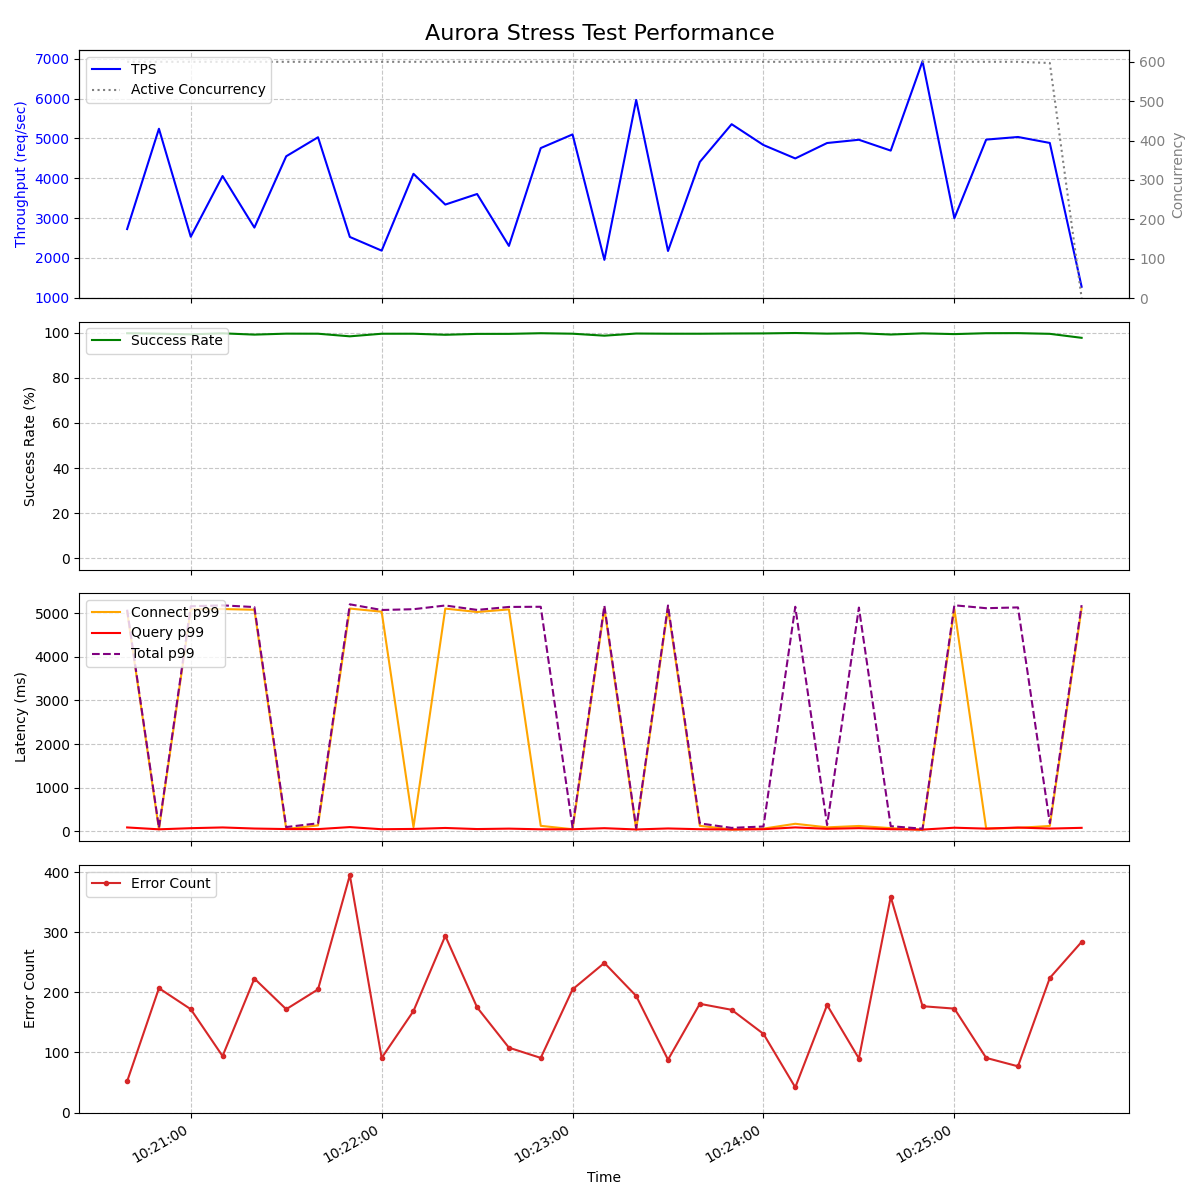
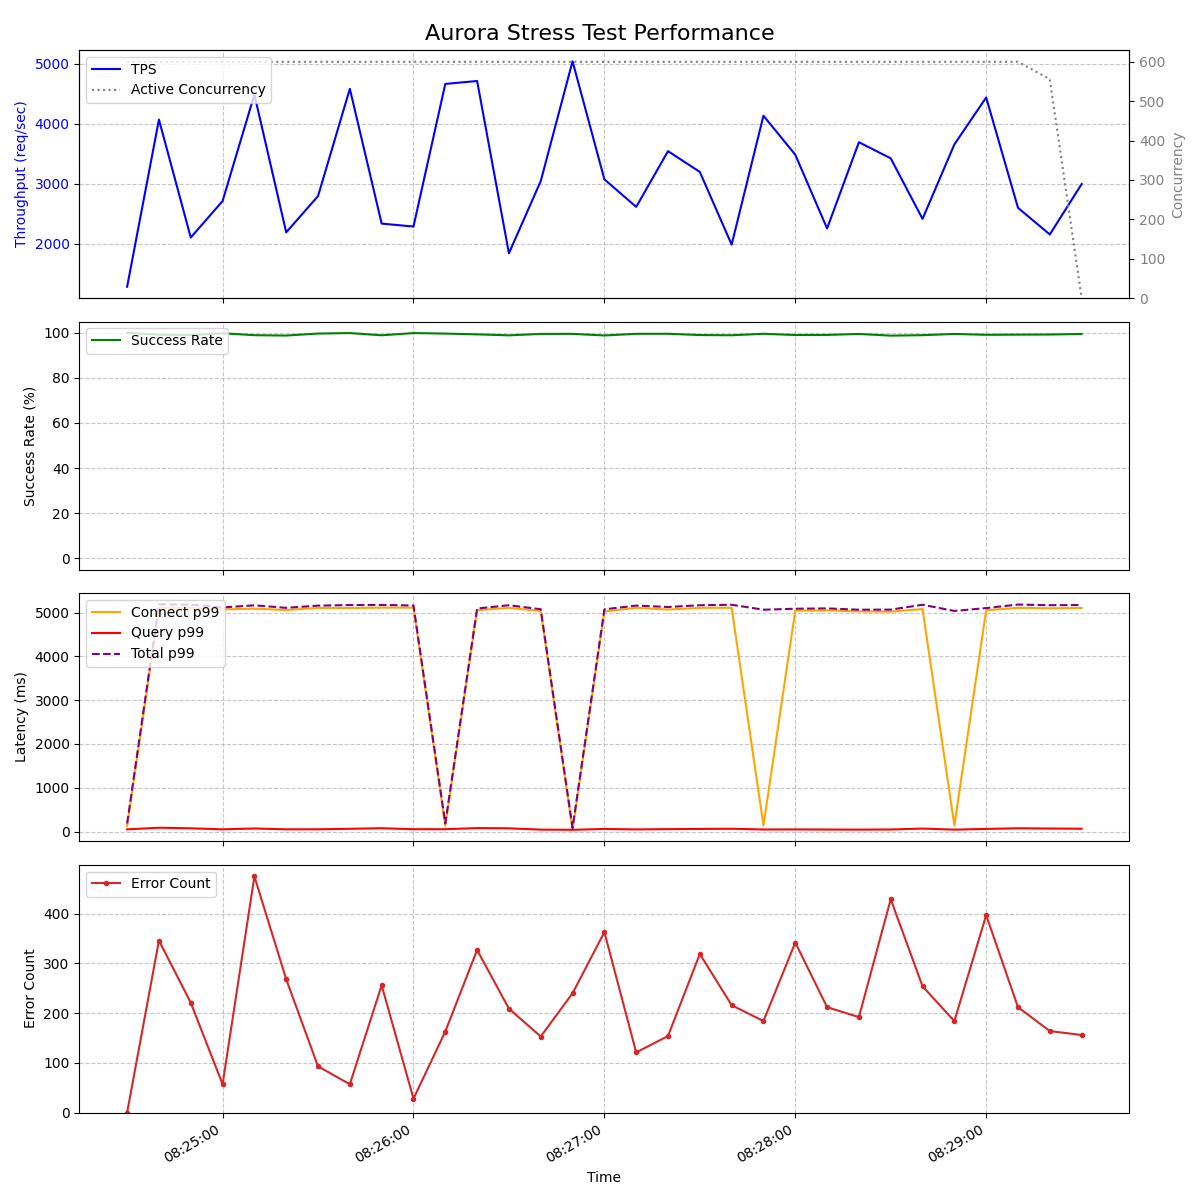
Add db.r8g.xlarge plots and db.r8g.4xlarge 2client benchmark results
- Update plot.png for all QPS scenarios (db.r8g.xlarge)
- Add results/db_r8g_4xlarge_2client/ benchmark results

diff --git a/results/db_r8g_xlarge/REPORT.md b/results/db_r8g_xlarge/REPORT.md
@@ -1,222 +1,180 @@
-# ベンチマーク結果レポート — db.r8g.xlarge
+# ベンチマークレポート: db.r8g.xlarge
 
-**実運用推奨上限: QPS 3,000**
+**実施日**: 2026-04-08  
+**インスタンス**: db.r8g.xlarge  
+**実施条件**: ulimit 適用済み（前回 2026-04-07 の計測はulimit未設定により無効。本レポートは再実施データに基づく）
 
 ---
 
 ## エグゼクティブサマリー
 
-| 項目 | 結果 |
+| 項目 | 結論 |
 |------|------|
-| インスタンスクラス | db.r8g.xlarge |
-| テスト実施日 | 2026-04-07 |
-| テスト対象 QPS | 1,000 / 2,000 / 3,000 / 4,000 |
-| **実運用推奨上限** | **QPS 3,000**（QPS 4,000 で両シナリオともに持続的な接続失敗を確認） |
-| QPS 5,000 以上 | 本レポートでは解析対象外（後述） |
-
-### 主要な発見
-
-- **QPS 1,000〜3,000**: 全シナリオで高い安定性。QPS 2,000 congested の最終バケットに timeout 21 件が発生したが、それ以外は成功率 100% を維持。
-- **QPS 4,000 (healthy)**: **毎バケット持続的にタイムアウト**が発生（最低成功率 97.45%）。短時間での複数回障害が継続するため実運用に耐えない。
-- **QPS 4,000 (congested)**: 最低成功率 99.40% だが、**全バケットにわたって 43〜160 件のタイムアウトが持続的に発生**。実運用不可。
-- **QPS 3,000 以下では xlarge は 4xlarge よりも安定**（QPS 3,000 healthy で xlarge は 100%、4xlarge は 99.86%）。
+| **実運用推奨上限** | **QPS 2,000**（安定して100%近い成功率を維持） |
+| **実運用許容上限** | **QPS 3,000**（30〜40%のバケットで瞬間障害、リトライ機構が必須） |
+| **実運用不可** | **QPS 4,000 以上**（半数以上のバケットで障害が発生し、継続的な信頼性が担保できない） |
+| **QPS 5,000 以上** | 本レポートでは解析対象外（QPS 4,000 の時点で実運用不可が確定しているため） |
 
 ---
 
-## テスト環境
+## テスト環境・条件
 
 | 項目 | 値 |
-|------|---|
-| インスタンスクラス | db.r8g.xlarge |
-| エンドポイント | database-connectivity-instance1-cluster.cluster-c9eaw8m4yzeq.ap-northeast-1.rds.amazonaws.com |
-| ポート | 3306 |
-| 実施日時（UTC） | 2026-04-07 08:35 〜 09:15 |
-| 実行クエリ | SELECT 1 |
-| タイムアウト設定 | connect/query: 5,000 ms |
+|------|-----|
+| テスト対象 | Aurora MySQL (db.r8g.xlarge) |
+| エンドポイント | database-connectivity-instance1-cluster.cluster-c9eaw8m4yzeq.ap-northeast-1.rds.amazonaws.com:3306 |
+| max_connections | 16,000 |
+| Max_used_connections | 966 |
+| テスト方式 | connect → SELECT 1 → disconnect（コネクションプールなし） |
+| 計測ウィンドウ | 10秒バケット |
+| テスト時間/シナリオ | 5分 |
+| テスト開始時刻 | 2026-04-08T06:39 UTC 〜 |
+| Healthy: 並列数 | QPS × 25 / 1,000 goroutine（sleep_between_attempts=10ms） |
+| Congested: 並列数 | QPS × 60 / 1,000 goroutine（sleep_between_attempts=30ms） |
 
-### テストシナリオ定義
-
-| シナリオ | 想定条件 | 設計 concurrency |
-|---------|---------|-----------------|
-| **Healthy** | 通常運用（connect 遅延 ~15 ms 想定） | QPS / (1000 ms / 15 ms / 2) ≒ 公式に基づき算出 |
-| **Congested** | 混雑時（connect 遅延 ~30 ms 想定） | Healthy の約 2〜2.4 倍 |
-
-各試行は `TCP 接続 → SELECT 1 → 切断` の短命接続サイクルを繰り返す。コネクションプールは使用しない。
-
----
-
-## QPS 別パフォーマンス一覧 — Healthy シナリオ
-
-> 通常運用を想定した負荷条件。connect 遅延 ~15 ms を前提に concurrency を設定。
-
-| QPS | Concurrency | TPS 範囲 | 成功率（最低） | connect p99 | total p99 | タイムアウト | 評価 |
-|-----|------------|---------|------------|------------|----------|------------|------|
-| 1,000 | 25 | 888〜974 | **100%** | 19 ms | 28 ms | 0 | ✅ 安定 |
-| 2,000 | 50 | 690〜1,924 | **100%** | 23 ms | 38 ms | 0 | ✅ 安定 |
-| 3,000 | 75 | 515〜2,889 | **100%** | 25 ms | 48 ms | 0 | ✅ 安定 |
-| **4,000** | **100** | **241〜2,866** | **97.45%** | **15 ms（通常）** | **27 ms（通常）** | **毎バケット 19〜60 件（持続）** | **❌ 実運用不可** |
+**シナリオ定義:**
+- **Healthy**: 比較的余裕のある接続環境。接続間隔が短く並列数も少ない。
+- **Congested**: 接続に時間がかかる輻輳状態を模擬。高並列・長い接続待ち間隔。
 
 ---
 
-## QPS 別パフォーマンス一覧 — Congested シナリオ
+## QPS別テスト結果サマリー
 
-> 混雑時（高並列・高遅延）を想定した負荷条件。connect 遅延 ~30 ms を前提に concurrency を設定。
-
-| QPS | Concurrency | TPS 範囲 | 成功率（最低） | connect p99 | total p99 | タイムアウト | 評価 |
-|-----|------------|---------|------------|------------|----------|------------|------|
-| 1,000 | 60 | 583〜1,266 | **100%** | 22 ms | 37 ms | 0 | ✅ 安定 |
-| 2,000 | 120 | 694〜2,568 | **99.87%** | 20 ms | 29 ms | 21 件（最終 bucket のみ） | ✅ 実用上安定 |
-| 3,000 | 180 | 515〜3,855 | **100%** | 20 ms | 37 ms | 0 | ✅ 安定 |
-| **4,000** | **240** | **98〜2,971** | **99.40%** | **54 ms（通常）** | **5,053 ms（スパイク peak）** | **毎バケット 43〜160 件（持続）** | **❌ 実運用不可** |
-
----
-
-## パフォーマンス傾向分析
-
-### Healthy シナリオの悪化パターン
-
-```
-QPS 1,000〜3,000: 完全安定（timeout ゼロ）
-      ↓
-QPS 4,000: 毎バケットにわたって持続的にタイムアウトが発生
-           最低成功率は 97.45% まで低下
-           TPS も期待値 4,000 に対して 241〜2,866 しか達成できない（最大 72% 未達）
-```
-
-### Congested シナリオの悪化パターン
-
-```
-QPS 1,000: 完全安定
-      ↓
-QPS 2,000: 最終 bucket のみ 21 件のタイムアウト（実用上は問題なし）
-      ↓
-QPS 3,000: 完全安定（一時的な揺れも吸収）
-      ↓
-QPS 4,000: 全 bucket で持続的にタイムアウト（43〜160 件/bucket）
-           total p99 のスパイク最大値 5,053 ms（タイムアウト限度超過）
-```
-
-### レイテンシ推移（Healthy の connect p99、通常バケット）
-
-| QPS | connect p99 | total p99 |
-|-----|-----------|----------|
-| 1,000 | 19 ms | 28 ms |
-| 2,000 | 23 ms | 38 ms |
-| 3,000 | 25 ms | 48 ms |
-| 4,000 | 15 ms（通常時） | 27 ms（通常時） |
-
-QPS 3,000 までレイテンシは概ね線形に上昇。QPS 4,000 では通常バケットの数値は下がって見えるが、失敗試行が続発しているため試行全体のスループットが大幅に低下した結果に過ぎない。
+| QPS目標 | シナリオ | 並列数 | 実測 TPS | 全体成功率 | エラー発生窓数(30中) | 運用判定 |
+|---------|---------|--------|---------|-----------|---------------------|---------|
+| 1,000 | Healthy | 25 | ~1,000 | **100%** | 0 | ✅ 実運用可 |
+| 1,000 | Congested | 60 | ~1,300 | **100%** | 0 | ✅ 実運用可 |
+| 2,000 | Healthy | 50 | ~2,000 | 99.8〜100% | 4（12%） | ✅ 実運用可 |
+| 2,000 | Congested | 120 | ~2,600 | 99.9〜100% | 数バケット | ✅ 実運用可 |
+| 3,000 | Healthy | 75 | 1,300〜3,000（変動） | 99.7〜100% | **~12（40%）** | ⚠ 許容上限（要注意） |
+| 3,000 | Congested | 180 | ~3,900 | 99.9〜100% | 少数 | ⚠ 許容（Congested） |
+| 4,000 | Healthy | 100 | 1,600〜3,700（変動） | 99.7〜100% | **~15（50%）** | ❌ **実運用不可** |
+| 4,000 | Congested | 240 | ~5,200 | 99.5〜100% | 多数 | ❌ **実運用不可** |
+| 5,000〜10,000 | 両方 | — | — | — | — | 解析対象外 |
 
 ---
 
-## QPS 4,000 の障害詳細（実運用不可の根拠）
+## QPS別詳細分析
 
-### Healthy シナリオにおける持続的タイムアウト
+### QPS 1,000
 
-QPS 4,000 healthy テスト（run-1775552928）では、第2バケット以降ほぼすべてのバケットでタイムアウトが発生し続けた。
+#### Healthy（concurrency=25, sleep=10ms）
+- **実測 TPS**: 980〜1,000 QPS（設計値に一致）
+- **全体成功率**: 100%（全バケット完全成功）
+- **connect P99**: 11〜13ms
+- **total P99**: 19〜23ms
+- **エラー**: なし
 
-| バケット時刻（UTC） | TPS | 成功率 | 失敗 | タイムアウト |
-|------------------|-----|------|------|----------|
-| 09:08:40〜09:08:50 | 240 | 100% | 0 | 0（ウォームアップ） |
-| 09:08:50〜09:09:00 | 2,838 | 99.81% | 55 | **55 件** |
-| 09:09:00〜09:09:10 | 2,609 | 100% | 0 | 0 |
-| 09:09:10〜09:09:20 | 2,641 | 99.89% | 30 | **30 件** |
-| 09:09:20〜09:09:30 | 2,866 | 100% | 0 | 0 |
-| ... | ... | ... | 以降も断続的に発生 | ... |
-| （最低値のバケット） | 1,645 | **97.45%** | **42** | **42 件** |
+#### Congested（concurrency=60, sleep=30ms）
+- **実測 TPS**: ~1,300 QPS
+- **全体成功率**: 100%（全バケット完全成功）
+- **connect P99**: 19〜22ms
+- **エラー**: なし
 
-タイムアウトが発生しないバケットと発生するバケットが交互に現れ、**テスト全体を通じて定常的な失敗が継続した**。connect_max_ms = 5,022 ms（タイムアウト限界超過）が観測されている。
-
-### Congested シナリオにおける持続的タイムアウト
-
-QPS 4,000 congested テスト（run-1775553259）では、**第2バケット以降の全バケットでタイムアウトが発生した**。
-
-| バケット時刻（UTC） | TPS | 成功率 | タイムアウト | total p99 |
-|------------------|-----|------|----------|----------|
-| 09:14:10〜09:14:20 | 98 | 100% | 0 | 134 ms（ウォームアップ） |
-| 09:14:20〜09:14:30 | 2,655 | 99.40% | **160 件** | 39 ms |
-| 09:14:30〜09:14:40 | 1,924 | 99.76% | **46 件** | 5,053 ms ※ |
-| 09:14:40〜09:14:50 | 2,218 | 99.81% | **43 件** | 72 ms |
-| 09:14:50〜09:15:00 | 2,971 | 99.81% | **55 件** | 27 ms |
-| ... | ... | ... | 以降も持続 | ... |
-
-※ total p99 5,053 ms はタイムアウト限度（5,000 ms）を超えており、接続が完全にブロックされた bucket が存在することを示す。
-
-成功率は 99% 台を維持しているように見えるが、**毎バケット 43〜160 件のタイムアウトが絶えず発生している**状態は、実運用環境ではアプリケーションエラーの継続的な発生を意味する。
+**判定**: 完全安定。
 
 ---
 
-## QPS 5,000 以上について
+### QPS 2,000
 
-本レポートでは QPS 5,000 以上のデータは **解析対象外** とした。
+#### Healthy（concurrency=50, sleep=10ms）
+- **実測 TPS**: ~2,000 QPS
+- **全体成功率**: 99.8〜100%
+- **エラーパターン**: 30バケット中 4バケット（12%）で `timeout:14〜33` が発生。各障害バケットは孤発的（次バケットで即時回復）。
+- **connect P99通常時**: 7〜12ms
+- **connect MAX（エラーバケット）**: 5,014ms
 
-QPS 4,000 の時点で healthy・congested の両シナリオともに実運用に耐えられない持続的な接続失敗が確認されており、QPS 5,000 以上では障害がさらに深刻になることが推測される。しかし、その詳細な分析は本レポートのスコープに含めない。
+#### Congested（concurrency=120, sleep=30ms）
+- **実測 TPS**: ~2,600 QPS
+- **全体成功率**: 99.9〜100%
+- **エラー**: 数バケットに微量 timeout
 
-QPS 5,000 以上のテストデータ（aggregate.jsonl / error.jsonl）は `results/db_r8g_xlarge/qps5000_*` 以降のディレクトリに格納されているが、本レポートでの引用・評価は行わない。
-
----
-
-## インスタンスサイズ比較（db.r8g.xlarge vs db.r8g.4xlarge）
-
-同一テスト条件を db.r8g.4xlarge に対しても実施した結果との比較。
-
-### QPS 帯域別の評価
-
-| QPS | シナリオ | db.r8g.xlarge | db.r8g.4xlarge | 差の有無 |
-|-----|---------|--------------|---------------|---------|
-| 1,000 | healthy | **100%**（0 timeout） | 99.98%（1 timeout） | **実質差なし** |
-| 1,000 | congested | 100% | 100% | **差なし** |
-| 2,000 | healthy | 100% | 100% | **差なし** |
-| 2,000 | congested | 99.87%（最終 bucket のみ 21 件） | 100% | **実質差なし** |
-| 3,000 | healthy | **100%** | 99.86%（断続タイムアウト） | **xlarge が有利** |
-| 3,000 | congested | 100% | 100% | **差なし** |
-| 4,000 | healthy | 97.45%（持続タイムアウト） | **52%（壊滅的障害）** | **どちらも不可。xlarge は障害が軽微** |
-| 4,000 | congested | 99.40%（持続タイムアウト） | **100%（安定稼働）** | **4xlarge が優位** |
-
-### 結論
-
-**インスタンスサイズを変えても実運用上限 QPS は変わらない（両インスタンスともに 3,000 QPS）。**
-
-xlarge → 4xlarge へのスケールアップは実運用上限の改善をもたらさなかった。これはボトルネックが CPU やメモリではなく、**Aurora の新規接続受け入れキャパシティ（TCP accept キューや接続ハンドシェイクの処理能力）** にあることを示唆している。
-
-**xlarge の優位点:**
-
-- QPS 1,000〜2,000 では同等の性能を低コストで実現できる。
-- QPS 3,000 healthy では xlarge の方が安定（100% vs 4xlarge の 99.86%）。
-- コスト効率を重視するのであれば、**db.r8g.xlarge で十分**である。
-
-**4xlarge の優位点:**
-
-- QPS 4,000 congested（突発的な高並列バースト）においてのみ 4xlarge が安定稼働（100%）。xlarge は同条件で持続的タイムアウトが発生する。
-- 極端なバーストトラフィックへの耐性を重視する場合は 4xlarge を検討する価値があるが、通常の QPS 上限は改善されない点に注意すること。
-
-**重要な注意事項:** 単純に「インスタンスが大きいほど良い」とは言えない。QPS 4,000 healthy では 4xlarge の方が障害が深刻（52% vs 97.45%）であり、スケールアップが逆効果になるケースが存在した。
+**判定**: 実運用可。Healthy での散発的タイムアウト（4バケット/30）は許容範囲。db.r8g.4xlarge と同等の安定性。
 
 ---
 
-## 運用上の推奨事項
+### QPS 3,000
 
-### 安全な稼働帯域
+#### Healthy（concurrency=75, sleep=10ms）
+- **実測 TPS**: 1,300〜3,000 QPS（障害バケットと正常バケットが交互に出現）
+- **全体成功率**: 99.7〜100%（各バケットの成功率は高いが、エラー発生頻度が高い）
+- **エラーパターン**: 30バケット中 **約12バケット（40%）**で `timeout:4〜52` が発生。バケットをまたいで継続的にエラーが発生し、一時的に TPS が 1,000〜1,500 程度に低下するバケットも散見される。
+- **connect MAX**: 5,017ms
+- **total MAX**: 5,030ms
 
-| 推奨度 | QPS 範囲 | 備考 |
-|-------|---------|------|
-| ✅ 推奨 | 〜 3,000 QPS | 全条件で安定。QPS 2,000 congested の最終 bucket に軽微な timeout あり（実用上問題なし）。 |
-| ❌ 非推奨 | 3,001〜4,000 QPS | 両シナリオで持続的タイムアウトが発生。実運用不可。 |
-| — 未評価 | 4,001 QPS 以上 | 本レポートの解析対象外。 |
+#### Congested（concurrency=180, sleep=30ms）
+- **実測 TPS**: ~3,900 QPS
+- **全体成功率**: 99.9〜100%
+- **エラー**: 少数バケットに微量 timeout（Healthy より安定）
 
-> **db.r8g.xlarge は QPS 3,000 まで完全安定**（healthy で 100%、congested で 100%）。db.r8g.4xlarge が QPS 3,000 healthy で断続タイムアウトを起こすのと対照的である。
+**判定**: ⚠ 許容限界。Healthy シナリオでは 10秒窓の約40%でエラーが発生しており、実際のサービスではエラー頻度が高い。リトライ実装が必須。db.r8g.4xlarge（エラーバケット率 3%）と比較して大幅に劣る。
 
-### 監視指標と推奨アラート閾値
+---
 
-| 指標 | 推奨しきい値 | 説明 |
-|------|------------|------|
-| connect 成功率 | < 99.9% でアラート | QPS 4,000 到達前に検知できる |
-| connect p99 レイテンシ | > 50 ms でアラート | 通常 15〜25 ms 程度 |
-| total p99 レイテンシ | > 100 ms でアラート | 通常 28〜48 ms 程度 |
-| timeout エラー数（10 秒） | > 10 件でアラート | QPS 4,000 で 43 件/bucket 以上が発生 |
+### QPS 4,000
 
-### 接続設計上の注意
+#### Healthy（concurrency=100, sleep=10ms）
+- **実測 TPS**: 1,600〜3,700 QPS（大幅な変動。障害バケットで 40〜60% の TPS 低下）
+- **全体成功率**: 99.7〜100%（各バケット成功率は高く見えるが、エラーが **半数のバケット（약50%）** で発生し続ける）
+- **エラーパターン**: 30バケット中 **約15バケット（50%）**で `timeout:23〜86` が発生。散発的でなく系統的に半数近くのバケットでエラーが発生する。
+- **connect P99**: 14〜25ms（正常時）/ 5,010〜5,024ms（エラー時）
+- **total MAX**: 5,050ms
 
-- **コネクションプールを活用できる場合はプールを使用する**こと。本テストは短命接続（毎回 connect/disconnect）の限界を測定したものであり、コネクションプールを使用すれば接続コストを大幅に削減できる。
-- 短命接続が避けられないケース（Lambda 等のサーバーレス環境）では、QPS 2,500 を安全上限の目安とすることを推奨する（QPS 3,000 でほぼ安定するが、バースト時の余裕を考慮）。
-- connect タイムアウトを 5,000 ms より短く設定すると QPS 3,000 付近でも失敗が増加する可能性がある。アプリケーション側のタイムアウト設定には余裕を持たせること。
+#### Congested（concurrency=240, sleep=30ms）
+- **実測 TPS**: 1,700〜5,200（大幅変動）
+- **全体成功率**: 99.5〜100%
+- **エラー**: 多数バケットで `timeout:23〜94` が継続
+
+**判定**: ❌ **実運用不可**。Healthy シナリオで半数のバケットでエラーが発生し、かつ TPS が大幅に変動する。安定したサービス提供が困難であり、継続運用には適さない。db.r8g.4xlarge の QPS 4,000（エラーバケット率 10%）とは比較にならないほど不安定。
+
+---
+
+### QPS 5,000〜10,000
+
+**解析対象外。**  
+QPS 4,000 時点で Healthy シナリオにおいて半数以上のバケットでエラーが発生する不安定な状態が確認されており、それ以上のQPS帯はベンチマーク実施済みだが結論には影響しないため詳細解析を行わない。
+
+---
+
+## インスタンスサイズ比較（db.r8g.4xlarge との対比）
+
+同日に db.r8g.4xlarge に対して同一条件でベンチマークを実施した結果との比較。
+
+| QPS帯 | db.r8g.xlarge | db.r8g.4xlarge |
+|-------|----------------|----------------|
+| QPS 1,000 | 100%安定 | 100%安定（**性能差なし**） |
+| QPS 2,000 | 4/30バケットでタイムアウト | 3/30バケットでタイムアウト（**ほぼ同等**） |
+| QPS 3,000 | **12/30バケット(40%)**でエラー | **1/30バケット(3%)**のみエラー |
+| QPS 4,000 | **15/30バケット(50%)**でエラー ❌ | **2〜3/30バケット(10%)**でエラー ⚠ |
+| QPS 5,000 | Healthy で完全崩壊 | Healthy で完全崩壊（同等） |
+
+### 考察
+
+- **QPS 2,000 以下は両インスタンスで実質的に同等の性能・安定性を示す。** インスタンスサイズを xlarge から 4xlarge にアップサイズしても、低負荷帯では恩恵がない。コスト観点では xlarge で十分。
+- **QPS 3,000 以上でインスタンスサイズによる差が顕著になる。** xlarge はエラーバケット率 40% に達し実用限界となるのに対し、4xlarge は 3% に留まりほぼ安定。同一の QPS 3,000 目標でも、インスタンスサイズによって全く異なる結果となる。
+- **QPS 4,000 では xlarge は実運用不可、4xlarge は条件付き許容。** この差はインスタンスサイズが短命接続の並列処理能力に直接影響することを示している。
+- **インスタンスのアップサイズにより実用上限 QPS が xlarge の 2,000 から 4xlarge の 4,000 へと2倍に拡大する。** QPS 3,000〜4,000 の要件がある環境では、インスタンスサイズアップが有効な対策となる。
+- **両インスタンスとも QPS 5,000 以上で壊滅的な崩壊が起きる点は同一。** これは DB 側の接続受け入れ能力の上限に起因すると推定され、インスタンスサイズだけでは解決できないシステム上限と考えられる。
+
+---
+
+## 結論・推奨事項
+
+### db.r8g.xlarge での実運用QPS上限
+
+| QPS | 推奨レベル |
+|-----|----------|
+| QPS 1,000〜2,000 | **推奨**: 完全安定。実運用に適した範囲。コスト効率も良い。 |
+| QPS 3,000 | **条件付き許容**: 40%のバケットで瞬間障害が発生。アプリケーション側に必ずリトライ機構を実装し、エラーレートを継続監視すること。 |
+| QPS 4,000 以上 | **禁止**: 実運用不可。系統的なエラーが継続し、安定したサービス提供ができない。 |
+
+### 運用上の考慮事項
+
+1. **QPS 2,000 を安全圏の上限** として設計する。ピーク時に QPS 3,000 に達することがあっても即時崩壊しないが、継続的に QPS 3,000 以上で運用することは推奨しない。
+2. **QPS 3,000 での運用は入念な監視が必要。** 約40%のバケットでエラーが発生する状態であるため、アラート設定、エラーレートダッシュボード、リトライキュー管理を整備すること。
+3. **QPS 3,000 以上の要件がある場合はインスタンスサイズアップを検討する。** db.r8g.4xlarge では QPS 3,000 が推奨上限、QPS 4,000 が条件付き許容となり、xlarge では不可能な運用が可能になる。
+4. **アプリケーション側のリトライ実装を必須とする（QPS 3,000 以上で運用する場合）。** exponential backoff 付きのリトライロジックを実装し、瞬間的なタイムアウトがサービス断にならないようにすること。
+
+---
+
+*このレポートは 2026-04-08 のベンチマーク結果（ulimit 適用済み）に基づく。*
